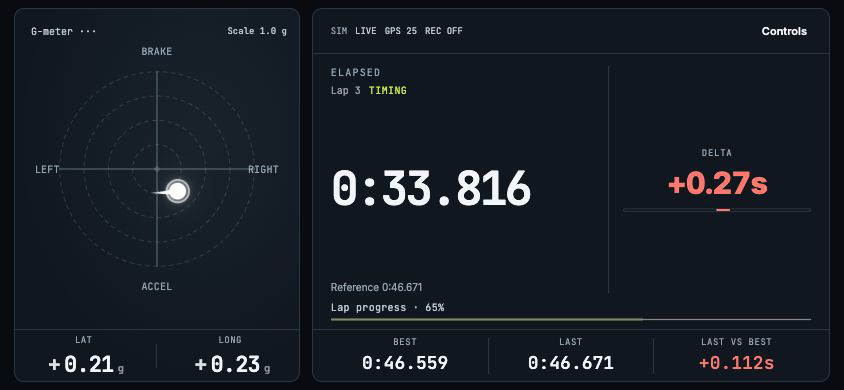
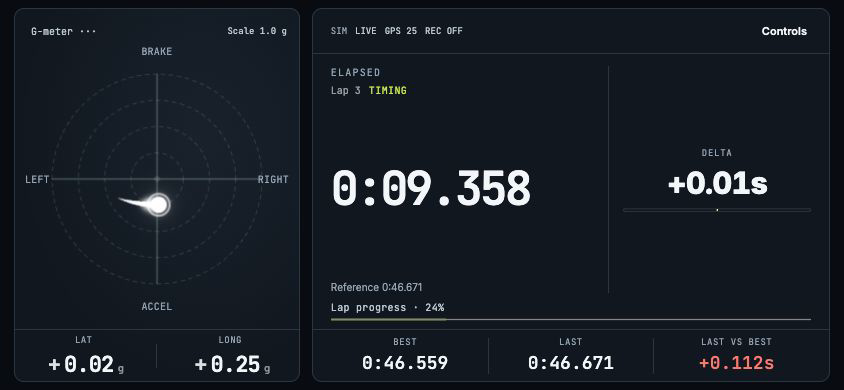
Use the full available plot square without duplicate padding

diff --git a/sensors/blackbox/web/dashboard.html b/sensors/blackbox/web/dashboard.html
@@ -447,7 +447,7 @@ body.cluster-view .bbClusterTabs{display:none;position:absolute;top:44px;left:6p
 body.cluster-view.instrument-picker .bbClusterTabs{display:flex}
 body.cluster-view .bbGTopLeft{padding-top:48px}body.cluster-view .bbGTopLeft>.bbInstrumentLabel{display:none}
 body.cluster-view .bbPeakGrid{padding-top:48px;gap:16px}body.cluster-view .bbPeakGrid dd{font-size:clamp(28px,5vw,44px)}
-body.cluster-view.cluster-forces .bbApp .bbGPlotWrap{padding:32px 4px 0;position:relative;inset:auto;container-type:size;display:block}
+body.cluster-view.cluster-forces .bbApp .bbGPlotWrap{padding:0 4px;position:relative;inset:auto;container-type:size;display:block}
 body.cluster-view.cluster-forces .bbApp .bbGPlotFrame{position:absolute;width:min(100cqw,calc(100cqh - 32px));height:min(100cqw,calc(100cqh - 32px));max-height:none;max-width:none;transition:none;top:32px;left:50%;transform:translateX(-50%);margin:0}
 body.cluster-view.cluster-forces .bbForceTools{position:absolute;top:0;right:4px;width:auto;z-index:4}body.cluster-view.cluster-forces #force-status{position:absolute;top:44px;right:0;white-space:nowrap;font-size:9px}
 
